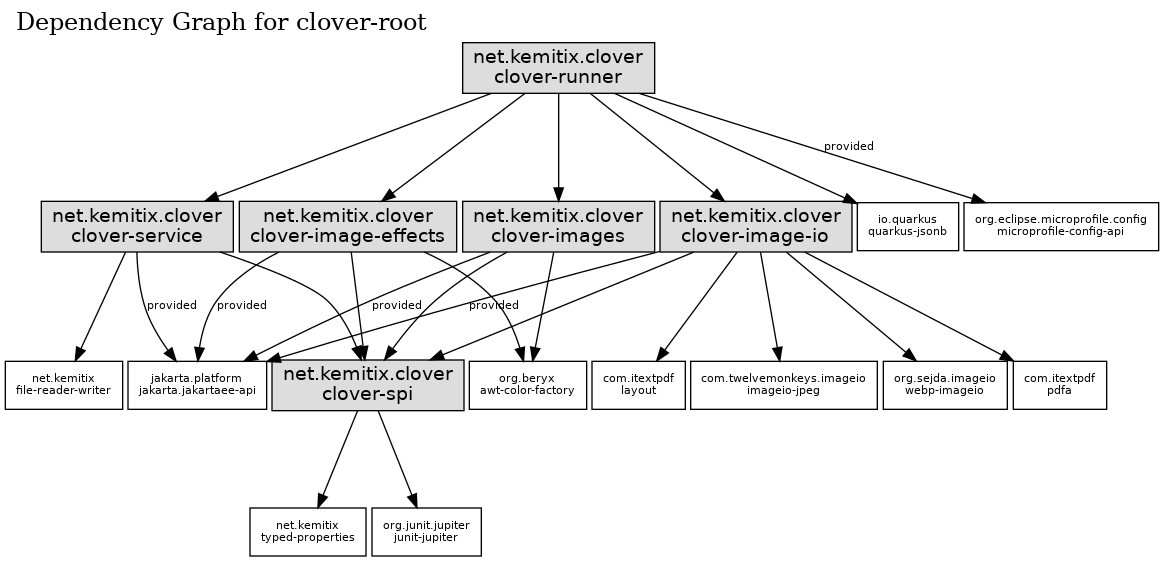
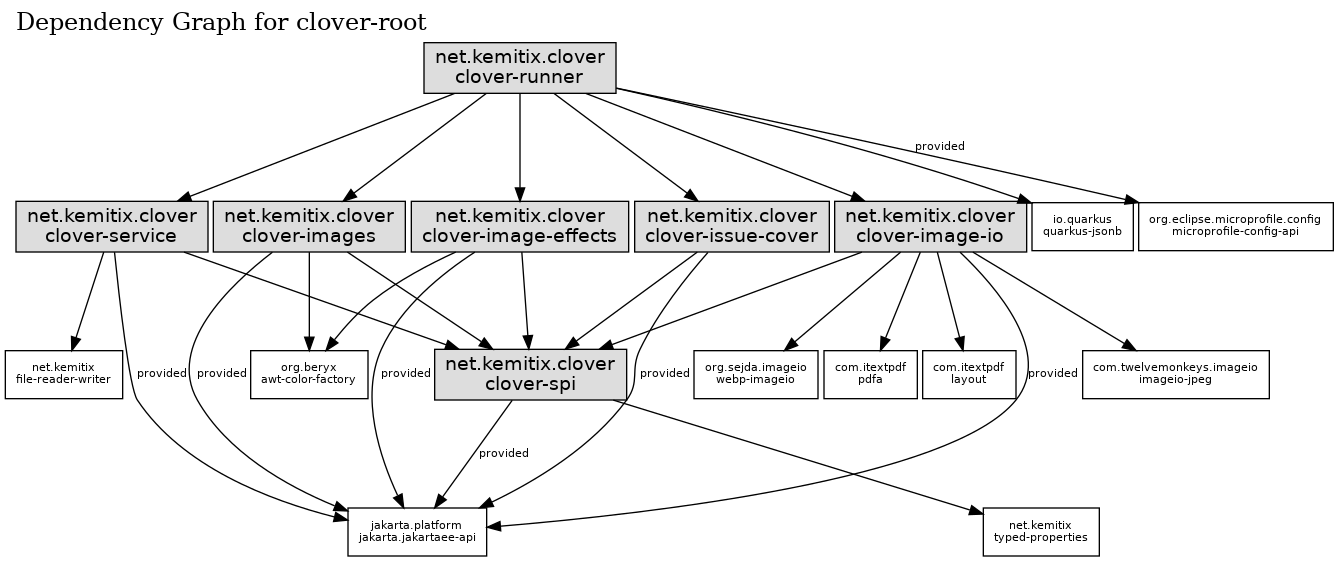
issue.CoverLogo: extracted

diff --git a/image-effects/src/main/java/net/kemitix/clover/image/effects/CentredTextEffectImpl.java b/image-effects/src/main/java/net/kemitix/clover/image/effects/CentredTextEffectImpl.java
@@ -17,32 +17,28 @@ import java.util.stream.IntStream;
 @NoArgsConstructor
 public class CentredTextEffectImpl
         extends AbstractTextEffect
-        implements CenteredTextEffect<Image>,
-        CenteredTextEffect.TextNext<Image>,
-        CenteredTextEffect.RegionNext<Image>,
-        Function<Image, Image> {
+        implements CenteredTextEffect<Graphics2D>,
+        CenteredTextEffect.TextNext<Graphics2D>,
+        CenteredTextEffect.RegionNext<Graphics2D>,
+        Function<Graphics2D, Graphics2D> {
 
-    @Inject
-    @Getter
-    FontCache fontCache;
-    @Getter
-    FontFace fontFace;
-    @Getter
-    Region region;
+    @Inject @Getter FontCache fontCache;
+    @Getter FontFace fontFace;
+    @Getter Region region;
     String text;
 
     @Override
-    public Image apply(Image image) {
-        return image.withGraphics(graphics2d -> {
-            String[] split = text.split("\n");
-            IntStream.range(0, split.length)
-                    .forEach(lineNumber -> {
-                        String lineOfText = split[lineNumber];
-                        if (lineOfText.length() > 0) {
-                            drawText(graphics2d, lineNumber, lineOfText, image.getArea());
-                        }
-                    });
-        });
+    public Graphics2D apply(Graphics2D graphics2D) {
+        String[] split = text.split("\n");
+        IntStream.range(0, split.length)
+                .forEach(lineNumber -> {
+                    String lineOfText = split[lineNumber];
+                    if (lineOfText.length() > 0) {
+                        drawText(graphics2D, lineNumber, lineOfText,
+                                region.getArea());
+                    }
+                });
+        return graphics2D;
     }
 
     private void drawText(
@@ -59,17 +55,17 @@ public class CentredTextEffectImpl
     }
 
     @Override
-    public Function<Image, Image> text(String text) {
+    public Function<Graphics2D, Graphics2D> text(String text) {
         return withText(text);
     }
 
     @Override
-    public RegionNext<Image> fontFace(FontFace fontFace) {
+    public RegionNext<Graphics2D> fontFace(FontFace fontFace) {
         return withFontFace(fontFace);
     }
 
     @Override
-    public TextNext<Image> region(Region region) {
+    public TextNext<Graphics2D> region(Region region) {
         return withRegion(region);
     }
 

diff --git a/service/src/main/java/net/kemitix/clover/service/FrontCoverBlock.java b/service/src/main/java/net/kemitix/clover/service/FrontCoverBlock.java
@@ -23,15 +23,13 @@ public class FrontCoverBlock implements Function<Image, Image> {
     @Inject CloverProperties cloverProperties;
     @Inject IssueConfig issueConfig;
     @Inject IssueDimensions dimensions;
-    @Inject CenteredTextEffect<Image> centeredText;
     @Inject RightAlignTextEffect<Image> rightAlignText;
     @Inject SimpleTextEffect<Image> simpleTextEffect;
     @Inject @FrontCover Instance<Element<Graphics2D>> elements;
 
     @Override
     public Image apply(Image image) {
-        return drawTitle()
-                .andThen(drawSubTitles())
+        return drawSubTitles()
                 .andThen(elements())
                 .apply(image);
     }
@@ -40,27 +38,6 @@ public class FrontCoverBlock implements Function<Image, Image> {
         return image ->
                 image.withGraphics(graphics2D ->
                         Drawable.draw(elements, graphics2D));
-    }
-
-    private Function<Image, Image> drawTitle() {
-        final FontFace fontFace =
-                FontFace.of(
-                        cloverProperties.getFontFile(),
-                        217,
-                        issueConfig.getTitleColour(),
-                        XY.at(
-                                cloverProperties.getDropShadowXOffset(),
-                                cloverProperties.getDropShadowYOffset()));
-        return image -> {
-            LOGGER.info("Drawing title...");
-            var text = String.join("\n",
-                    issueConfig.getPublicationTitle().split(" "));
-            return centeredText
-                    .fontFace(fontFace)
-                    .region(dimensions.getFrontCrop().withPadding(85))
-                    .text(text)
-                    .apply(image);
-        };
     }
 
     private int frontLeftEdge() {

diff --git a/issue-cover/src/main/java/net/kemitix/clover/issue/CoverLogo.java b/issue-cover/src/main/java/net/kemitix/clover/issue/CoverLogo.java
@@ -1,0 +1,38 @@
+package net.kemitix.clover.issue;
+
+import lombok.Getter;
+import net.kemitix.clover.spi.*;
+
+import javax.enterprise.context.ApplicationScoped;
+import javax.inject.Inject;
+import java.awt.*;
+
+@FrontCover
+@ApplicationScoped
+public class CoverLogo implements Element<Graphics2D> {
+
+    @Getter private final int priority = 10;
+
+    @Inject CloverProperties cloverProperties;
+    @Inject IssueConfig issueConfig;
+    @Inject CenteredTextEffect<Graphics2D> centeredText;
+    @Inject IssueDimensions dimensions;
+
+    @Override
+    public void draw(Graphics2D drawable) {
+        FontFace fontFace = FontFace.of(
+                cloverProperties.getFontFile(),
+                217,
+                issueConfig.getTitleColour(),
+                XY.at(
+                        cloverProperties.getDropShadowXOffset(),
+                        cloverProperties.getDropShadowYOffset()));
+        var text = String.join("\n",
+                issueConfig.getPublicationTitle().split(" "));
+        centeredText
+                .fontFace(fontFace)
+                .region(dimensions.getFrontCrop().withPadding(85))
+                .text(text)
+                .apply(drawable);
+    }
+}
